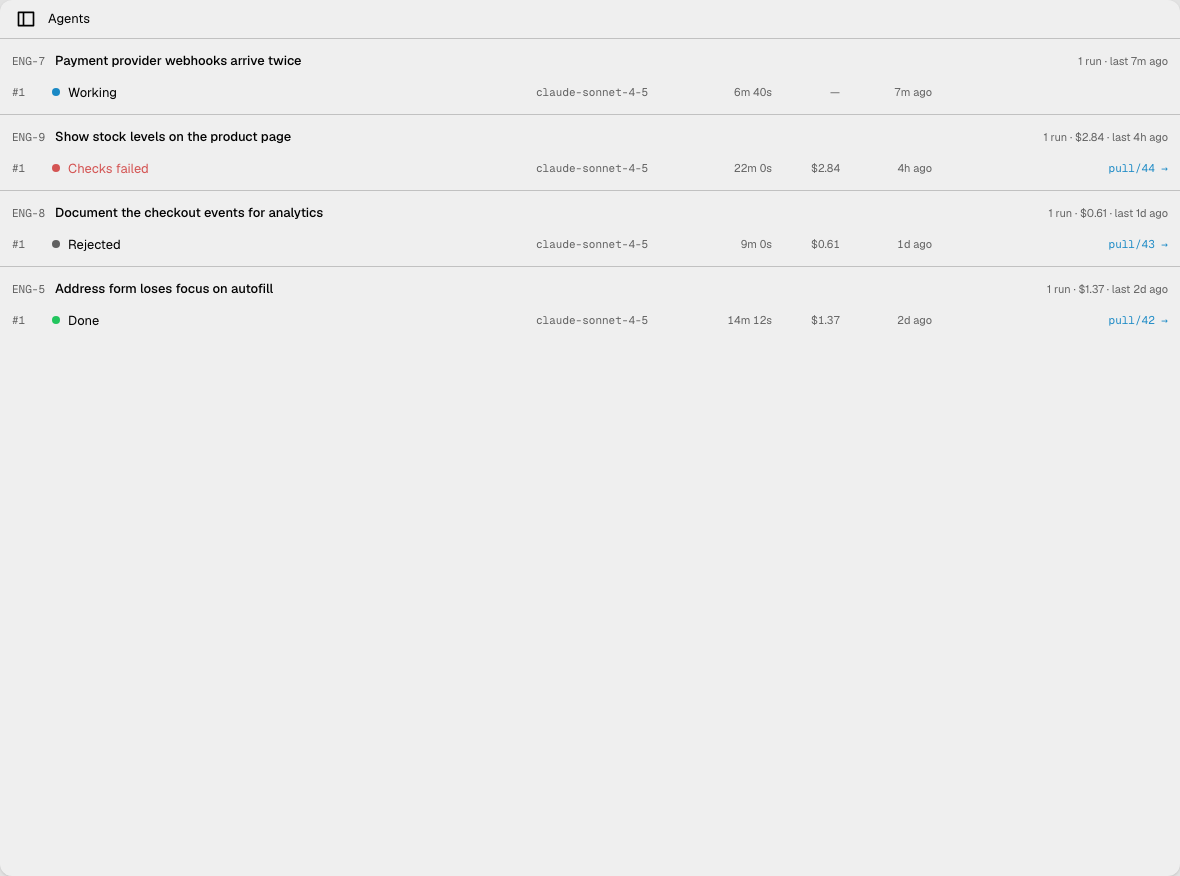
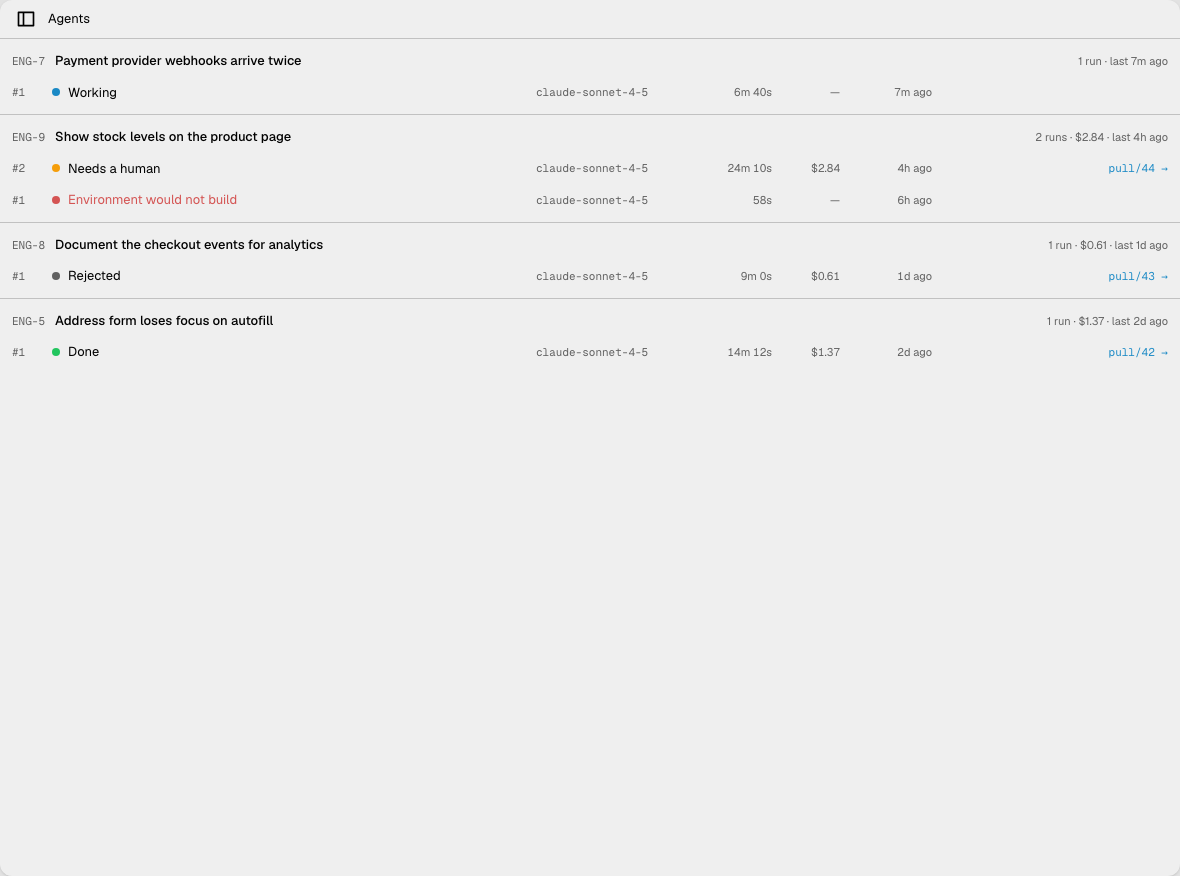
Seed only agent runs the hosted executor can produce (ENG-237)
The failed run in the screenshots failed with VERIFICATION_FAILED, which
the hosted executor never sets: checks that stay red at the pass limit
hand the work to a person instead. The failed run is now a setup
failure that pushed nothing, and the stock-levels issue gets a second
run that reached its pass limit and waits for a person; the dialog is
captured from that run as Reject, since a failed run never offers
Clean up. Every seeded run now writes the executor's own event lines,
including the report event, so no stage reads "skipped" next to a pull
request, and branches use the agent/<key> form.

A finished run's Spend card shows the turn count as its passes, because
the executor writes the turns into iterationCount when the run ends.
The page now says so instead of describing the intended count, and the
seeds carry the value users see. The text also covers the workspace
default model, the merged pull request that keeps a branch, and the
sandbox host link.

diff --git a/apps/e2e/screenshots/seed-agents.ts b/apps/e2e/screenshots/seed-agents.ts
@@ -8,8 +8,13 @@ import type { Database } from './db';
 
 /**
  * What the agent pages show: a model the workspace can use, a repository the
- * storefront's code lives in, and runs on four issues, one in each state a
- * reader needs to recognise.
+ * storefront's code lives in, and five runs on four issues, one in each state
+ * a reader needs to recognise.
+ *
+ * Every run is one the hosted executor can produce: its failure category, its
+ * events and its counts are the ones that executor writes. A finished run
+ * carries its turn count in iterationCount too, because the executor writes it
+ * there when the run ends, and the Spend card shows that field as passes.
  *
  * The agent account and the module's repository go through the API. The rest
  * has no endpoint, because only a person delegating and a real executor make
@@ -23,6 +28,7 @@ export interface SeededAgents {
   succeededRunId: string;
   rejectedRunId: string;
   failedRunId: string;
+  handedOverRunId: string;
 }
 
 interface Input {
@@ -122,9 +128,10 @@ export async function seedAgents(
   const runningStart = clockAt - 6 * MINUTE - 40_000;
   const runningRunId = await run(
     issues.running,
-    { status: 'RUNNING', startedAt: runningStart, iterationCount: 1 },
+    { status: 'RUNNING', startedAt: runningStart, iterationCount: 0 },
     [
       ...setup(),
+      [62, 'implement', 'Running the agent'],
       [70, 'implement', 'Read src/payments/webhooks.ts', { kind: 'read', target: 'src/payments/webhooks.ts' }],
       [74, 'implement', 'Read src/payments/provider.ts', { kind: 'read', target: 'src/payments/provider.ts' }],
       [79, 'implement', 'Read src/orders/apply-payment.ts', { kind: 'read', target: 'src/orders/apply-payment.ts' }],
@@ -166,6 +173,7 @@ export async function seedAgents(
       ],
       [250, 'implement', 'Edit src/payments/webhooks.spec.ts', { kind: 'write', ref: 'w3', target: 'src/payments/webhooks.spec.ts' }],
       [251, 'implement', 'Edit src/payments/webhooks.spec.ts', { ref: 'w3', ok: true, added: 34, removed: 0 }],
+      [298, 'verify', 'Running the repository’s own checks'],
       [300, 'verify', 'pnpm test src/payments', { kind: 'test', ref: 't1', command: 'pnpm test src/payments' }],
     ],
   );
@@ -178,12 +186,12 @@ export async function seedAgents(
       status: 'SUCCEEDED',
       startedAt: succeededStart,
       finishedAt: new Date(succeededStart + 14 * MINUTE + 12_000),
-      iterationCount: 1,
+      iterationCount: 23,
       summary:
         'The address form re-rendered on every keystroke because the autofill handler replaced the whole form state, which dropped focus. It now merges the autofilled fields into the existing state. Added a test that autofills the form and checks the focused field keeps focus.',
       result: {
         delivery: 'pull_request',
-        branch: 'vantik/eng-5-address-form-focus',
+        branch: 'agent/eng-5',
         prUrl: 'https://github.com/acme/storefront/pull/42',
         headCommit: '9b1c4e7',
         filesChanged: 2,
@@ -205,6 +213,7 @@ export async function seedAgents(
     },
     [
       ...setup(),
+      [62, 'implement', 'Running the agent'],
       [72, 'implement', 'Read src/checkout/address-form.tsx', { kind: 'read', target: 'src/checkout/address-form.tsx' }],
       [75, 'implement', 'Read src/checkout/use-autofill.ts', { kind: 'read', target: 'src/checkout/use-autofill.ts' }],
       [
@@ -220,12 +229,14 @@ export async function seedAgents(
       [301, 'implement', 'Edit src/checkout/use-autofill.ts', { ref: 'w1', ok: true, added: 9, removed: 7 }],
       [420, 'implement', 'Edit src/checkout/address-form.spec.tsx', { kind: 'write', ref: 'w2', target: 'src/checkout/address-form.spec.tsx' }],
       [421, 'implement', 'Edit src/checkout/address-form.spec.tsx', { ref: 'w2', ok: true, added: 29, removed: 0 }],
+      [560, 'verify', 'Running the repository’s own checks'],
       [562, 'verify', 'pnpm test src/checkout', { kind: 'test', ref: 't1', command: 'pnpm test src/checkout' }],
       [640, 'verify', 'pnpm test src/checkout', { ref: 't1', ok: true, exit: 0, passed: 48, failed: 0 }],
       [683, 'verify', 'pnpm typecheck', { kind: 'bash', ref: 'b1', command: 'pnpm typecheck' }],
       [702, 'verify', 'pnpm typecheck', { ref: 'b1', ok: true, exit: 0 }],
-      [825, 'review', 'The reviewer approved the change: the fix is the smallest one that keeps the inputs mounted, and the test fails without it.'],
-      [852, 'report', 'Opened pull request #42 on acme/storefront'],
+      [705, 'review', 'Reviewing the work against the issue'],
+      [825, 'review', 'The reviewer accepted the work'],
+      [830, 'report', 'Pushing the branch'],
     ],
   );
   await db.insert('LinkedIssue', {
@@ -247,12 +258,12 @@ export async function seedAgents(
       status: 'NEEDS_REVIEW',
       startedAt: rejectedStart,
       finishedAt: new Date(rejectedFinish),
-      iterationCount: 1,
+      iterationCount: 14,
       summary:
         'Listed the eleven checkout events with their properties in docs/analytics/checkout.md.',
       result: {
         delivery: 'pull_request',
-        branch: 'vantik/eng-8-checkout-analytics-events',
+        branch: 'agent/eng-8',
         prUrl: 'https://github.com/acme/storefront/pull/43',
         headCommit: '4e0a2d1',
         filesChanged: 1,
@@ -268,34 +279,60 @@ export async function seedAgents(
           branch: 'deleted',
         },
       },
-      phaseTimings: { setup: 61_000, implement: 402_000, review: 90_000, report: 24_000 },
+      phaseTimings: { setup: 61_000, implement: 340_000, verify: 62_000, review: 90_000, report: 24_000 },
     },
     [
       ...setup(),
+      [62, 'implement', 'Running the agent'],
       [70, 'implement', 'Read src/analytics/events.ts', { kind: 'read', target: 'src/analytics/events.ts' }],
       [74, 'implement', 'Read src/checkout/track.ts', { kind: 'read', target: 'src/checkout/track.ts' }],
       [300, 'implement', 'Created docs/analytics/checkout.md', { kind: 'write', ref: 'w1', target: 'docs/analytics/checkout.md' }],
       [301, 'implement', 'Created docs/analytics/checkout.md', { ref: 'w1', ok: true, added: 96, removed: 0 }],
-      [430, 'review', 'Reviewing the work against the issue'],
-      [515, 'review', 'The reviewer rejected the work but cited no file, line or failing command, so there is nothing specific to send back.'],
+      [400, 'verify', 'Running the repository’s own checks'],
+      [402, 'verify', 'pnpm lint', { kind: 'bash', ref: 'b1', command: 'pnpm lint' }],
+      [460, 'verify', 'pnpm lint', { ref: 'b1', ok: true, exit: 0 }],
+      [462, 'review', 'Reviewing the work against the issue'],
+      [550, 'review', 'The reviewer found 0 thing(s) to fix'],
+      [552, 'report', 'Pushing the branch'],
     ],
   );
 
-  // Failed: the change broke two tests the run could not fix in its budget.
-  const failedStart = clockAt - 4 * 60 * MINUTE;
+  // Failed: the setup command of the repository broke, so the agent never
+  // started. Nothing was pushed, so there is nothing to clean up.
+  const failedStart = clockAt - 6 * 60 * MINUTE;
   const failedRunId = await run(
     issues.failed,
     {
       status: 'FAILED',
-      failure: 'VERIFICATION_FAILED',
+      failure: 'ENVIRONMENT_SETUP_FAILED',
       error:
-        'pnpm test failed after 2 revise passes: 2 of 51 tests in src/catalog/stock.spec.ts still fail ("hides the badge when stock is unknown", "rounds stock above 99 to 99+").',
+        'pnpm install --frozen-lockfile\n ERR_PNPM_OUTDATED_LOCKFILE  Cannot install with "frozen-lockfile" because pnpm-lock.yaml is not up to date with package.json',
       startedAt: failedStart,
-      finishedAt: new Date(failedStart + 22 * MINUTE),
-      iterationCount: 3,
+      finishedAt: new Date(failedStart + 58_000),
+      result: { egressDenied: 0 },
+    },
+    [
+      [2, 'setup', 'Started a sandbox (2 vCPU, 4 GB)'],
+      [9, 'setup', 'Cloned acme/storefront at main (3f2c9e1)'],
+    ],
+  );
+
+  // Handed over: after the lockfile was fixed, the issue was delegated again.
+  // The checks still failed after three passes, which is the limit, so the
+  // cycle gave the work to a person with the pull request open.
+  const handedOverStart = clockAt - 4 * 60 * MINUTE;
+  const handedOverRunId = await run(
+    issues.failed,
+    {
+      status: 'NEEDS_REVIEW',
+      startedAt: handedOverStart,
+      finishedAt: new Date(handedOverStart + 24 * MINUTE + 10_000),
+      iterationCount: 41,
+      summary:
+        'Added a stock badge to the product page. Two tests in src/catalog/stock.spec.ts still fail: the badge shows when stock is unknown, and stock above 99 is not rounded.',
       result: {
         delivery: 'pull_request',
-        branch: 'vantik/eng-9-stock-levels',
+        branch: 'agent/eng-9',
         prUrl: 'https://github.com/acme/storefront/pull/44',
         headCommit: '7f3e9a0',
         filesChanged: 3,
@@ -303,31 +340,61 @@ export async function seedAgents(
         deletions: 12,
         costUsd: 2.84,
         turns: 41,
-        reviewPasses: 0,
+        reviewPasses: 3,
       },
       phaseTimings: {
         setup: 66_000,
-        implement: 501_000,
+        implement: 330_000,
         verify: 98_000,
-        'revise-1': 240_000,
+        review: 92_000,
+        'revise-2': 240_000,
         'verify-2': 95_000,
-        'revise-2': 220_000,
+        'review-2': 88_000,
+        'revise-3': 220_000,
         'verify-3': 97_000,
+        'review-3': 90_000,
+        report: 26_000,
       },
     },
     [
       ...setup(),
+      [62, 'implement', 'Running the agent'],
       [71, 'implement', 'Read src/catalog/product-page.tsx', { kind: 'read', target: 'src/catalog/product-page.tsx' }],
       [75, 'implement', 'Read src/catalog/stock.ts', { kind: 'read', target: 'src/catalog/stock.ts' }],
-      [400, 'implement', 'Created src/catalog/stock-badge.tsx', { kind: 'write', ref: 'w1', target: 'src/catalog/stock-badge.tsx' }],
-      [401, 'implement', 'Created src/catalog/stock-badge.tsx', { ref: 'w1', ok: true, added: 41, removed: 0 }],
-      [1140, 'verify', 'pnpm test src/catalog', { kind: 'test', ref: 't1', command: 'pnpm test src/catalog' }],
+      [300, 'implement', 'Created src/catalog/stock-badge.tsx', { kind: 'write', ref: 'w1', target: 'src/catalog/stock-badge.tsx' }],
+      [301, 'implement', 'Created src/catalog/stock-badge.tsx', { ref: 'w1', ok: true, added: 41, removed: 0 }],
+      [396, 'verify', 'Running the repository’s own checks'],
+      [398, 'verify', 'pnpm test src/catalog', { kind: 'test', ref: 't1', command: 'pnpm test src/catalog' }],
       [
-        1235,
+        494,
         'verify',
         'pnpm test src/catalog',
         {
           ref: 't1',
+          ok: false,
+          exit: 1,
+          passed: 48,
+          failed: 3,
+          output:
+            'FAIL src/catalog/stock.spec.ts\n  ✕ hides the badge when stock is unknown\n  ✕ rounds stock above 99 to 99+\n  ✕ shows the badge for stock of 0\n\nTests: 3 failed, 48 passed, 51 total',
+        },
+        'ERROR',
+      ],
+      [496, 'review', 'Reviewing the work against the issue'],
+      [588, 'review', 'The reviewer found 2 thing(s) to fix'],
+      [590, 'revise-2', 'Fixing 2 finding(s) from the review'],
+      [830, 'verify-2', 'Running the repository’s own checks'],
+      [925, 'review-2', 'Reviewing the work against the issue'],
+      [1013, 'review-2', 'The reviewer found 2 thing(s) to fix'],
+      [1015, 'revise-3', 'Fixing 2 finding(s) from the review'],
+      [1235, 'verify-3', 'Running the repository’s own checks'],
+      [1237, 'verify-3', 'pnpm test src/catalog', { kind: 'test', ref: 't3', command: 'pnpm test src/catalog' }],
+      [
+        1330,
+        'verify-3',
+        'pnpm test src/catalog',
+        {
+          ref: 't3',
           ok: false,
           exit: 1,
           passed: 49,
@@ -337,11 +404,19 @@ export async function seedAgents(
         },
         'ERROR',
       ],
-      [1320, 'report', 'Verification still fails after 2 revise passes; stopping', undefined, 'ERROR'],
+      [1332, 'review-3', 'Reviewing the work against the issue'],
+      [1420, 'review-3', 'The reviewer found 2 thing(s) to fix'],
+      [1424, 'report', 'Pushing the branch'],
     ],
   );
 
-  return { runningRunId, succeededRunId, rejectedRunId, failedRunId };
+  return {
+    runningRunId,
+    succeededRunId,
+    rejectedRunId,
+    failedRunId,
+    handedOverRunId,
+  };
 }
 
 /** The first minute of every run: the sandbox, the clone and the install. */

diff --git a/apps/e2e/screenshots/app.capture.ts b/apps/e2e/screenshots/app.capture.ts
@@ -356,13 +356,15 @@ test.describe('agent runs', () => {
     await shot(page, 'agents/run-failed', { focus: content(page), padding: 0 });
   });
 
+  // The run handed to a person, so the dialog is the Reject one. A failed
+  // hosted run pushed nothing, so it never offers Clean up.
   test('clean up', async ({ page }) => {
     await runPage(
       page,
-      run.seeded.agents.failedRunId,
+      run.seeded.agents.handedOverRunId,
       'Show stock levels on the product page',
     );
-    await page.getByRole('button', { name: 'Clean up' }).first().click();
+    await page.getByRole('button', { name: 'Reject' }).first().click();
     const dialog = page.getByRole('alertdialog').or(page.getByRole('dialog')).first();
     await expect(dialog).toBeVisible();
     await shot(page, 'agents/clean-up', { focus: dialog });
